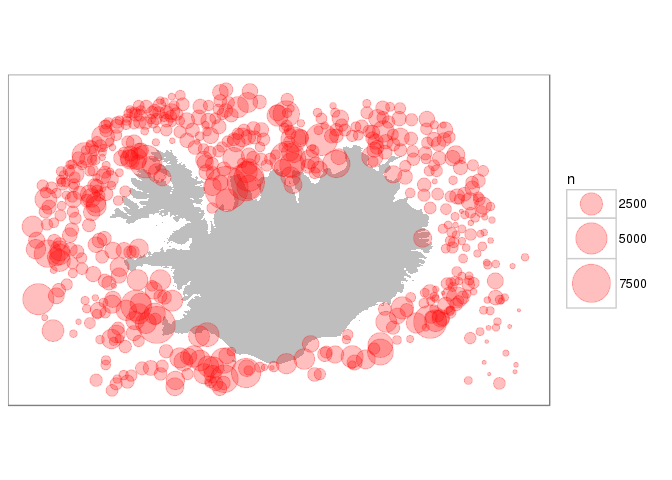
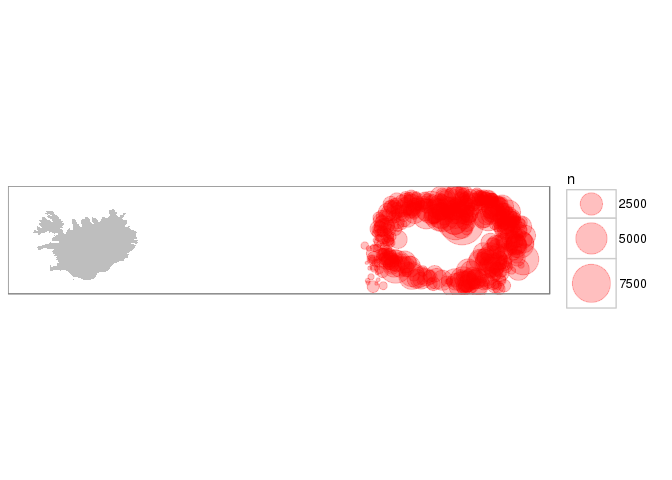
- uppfærsla á forsíðu m.t.t. nýlegra breytinga

diff --git a/README.md b/README.md
@@ -70,7 +70,7 @@ explain(lengdir)
 
 ```
 ## <SQL> EXPLAIN PLAN FOR SELECT "SYNIS_ID" AS "synis_id", "TEGUND" AS "tegund", "LENGD" AS "lengd", "FJOLDI" AS "fjoldi", "KYN" AS "kyn", "KYNTHROSKI" AS "kynthroski", "SBT" AS "sbt", "SBN" AS "sbn", "SNT" AS "snt", "SNN" AS "snn"
-## FROM (fiskar.lengdir) "urxshrqcxh"
+## FROM (fiskar.lengdir) "hkilyrvkld"
 ```
 Ergo we generated an object, which one part is an SQL-query. The `explain` informs us how the database plans to execute the query.
 
@@ -133,7 +133,7 @@ explain(lengdir)
 ## <SQL> EXPLAIN PLAN FOR SELECT *
 ## FROM (SELECT "synis_id" AS "synis_id", "tegund" AS "tegund", "lengd" AS "lengd", "fjoldi" AS "fjoldi", "kyn" AS "kyn", "kynthroski" AS "kynthroski"
 ## FROM (SELECT "SYNIS_ID" AS "synis_id", "TEGUND" AS "tegund", "LENGD" AS "lengd", "FJOLDI" AS "fjoldi", "KYN" AS "kyn", "KYNTHROSKI" AS "kynthroski", "SBT" AS "sbt", "SBN" AS "sbn", "SNT" AS "snt", "SNN" AS "snn"
-## FROM (fiskar.lengdir) "zuowlykouz") "mbhejgkbhu") "viplhgaqjg"
+## FROM (fiskar.lengdir) "hvqhbzyfbh") "scmwyksqez") "duafngrueq"
 ## WHERE (("synis_id" = 48489.0) AND ("tegund" = 1.0))
 ```
 
@@ -210,36 +210,36 @@ explain(d)
 ## FROM (SELECT "synis_id", "tegund", "lengd", "fjoldi", "kyn", "kynthroski", 'lengdir' AS "uppruni_lengdir"
 ## FROM (SELECT "synis_id" AS "synis_id", "tegund" AS "tegund", "lengd" AS "lengd", "fjoldi" AS "fjoldi", "kyn" AS "kyn", "kynthroski" AS "kynthroski"
 ## FROM (SELECT * FROM (SELECT "SYNIS_ID" AS "synis_id", "TEGUND" AS "tegund", "LENGD" AS "lengd", "FJOLDI" AS "fjoldi", "KYN" AS "kyn", "KYNTHROSKI" AS "kynthroski", "SBT" AS "sbt", "SBN" AS "sbn", "SNT" AS "snt", "SNN" AS "snn"
-## FROM (fiskar.lengdir) "zicvtdgtwp") "xfnvxveomi"
+## FROM (fiskar.lengdir) "becrdlvnfw") "lnqicezgvi"
 ## 
 ## INNER JOIN
 ## 
 ## (SELECT "synis_id" AS "synis_id"
 ## FROM (SELECT *
 ## FROM (SELECT "SYNIS_ID" AS "synis_id", "LEIDANGUR" AS "leidangur", "DAGS" AS "dags", "SKIP" AS "skip", "STOD" AS "stod", "REITUR" AS "reitur", "SMAREITUR" AS "smareitur", "KASTAD_N_BREIDD" AS "kastad_n_breidd", "KASTAD_V_LENGD" AS "kastad_v_lengd", "HIFT_N_BREIDD" AS "hift_n_breidd", "HIFT_V_LENGD" AS "hift_v_lengd", "DYPI_KASTAD" AS "dypi_kastad", "DYPI_HIFT" AS "dypi_hift", "VEIDARFAERI" AS "veidarfaeri", "MOSKVASTAERD" AS "moskvastaerd", "GRANDARALENGD" AS "grandaralengd", "HEILDARAFLI" AS "heildarafli", "LONDUNARHOFN" AS "londunarhofn", "SKIKI" AS "skiki", "FJARDARREITUR" AS "fjardarreitur", "SNT" AS "snt", "SNN" AS "snn", "SBT" AS "sbt", "SBN" AS "sbn", "HNATTSTADA" AS "hnattstada", "LANDSYNI" AS "landsyni", "ATHS" AS "aths", "STADA_STODVAR" AS "stada_stodvar", "NET_NR" AS "net_nr", "SYNAFLOKKUR" AS "synaflokkur", "VEIDISVAEDI" AS "veidisvaedi", "HITAMAELIR_ID" AS "hitamaelir_id", "MAELINGARMENN" AS "maelingarmenn", "VEIDARFAERI_ID" AS "veidarfaeri_id", "TOG_ATHS" AS "tog_aths", "MEDFERD_AFLA" AS "medferd_afla"
-## FROM (fiskar.stodvar) "zumalzhept") "hjaxfpalfg"
-## WHERE ("dags" > TO_DATE('01.01.1986', 'dd.mm.yyyy'))) "grqfdbyltq") "hwpiomxvcg"
+## FROM (fiskar.stodvar) "yjusjwkdrh") "soesafjklq"
+## WHERE ("dags" > TO_DATE('01.01.1986', 'dd.mm.yyyy'))) "vdsmzxeyvu") "cjbbabzqxp"
 ## 
-## USING ("synis_id")) "eebvxffyjk") "benwfnccoz"
+## USING ("synis_id")) "bsbeynzwqk") "yqatwlpjdp"
 ## UNION ALL
 ## SELECT "synis_id", "tegund", "lengd", "fjoldi", "kyn", "kynthroski", 'leidr_lengdir' AS "uppruni_lengdir"
 ## FROM (SELECT *
 ## FROM (SELECT * FROM (SELECT "synis_id" AS "synis_id", "tegund" AS "tegund", "lengd" AS "lengd", "fjoldi" AS "fjoldi", "kyn" AS "kyn", "kynthroski" AS "kynthroski"
 ## FROM (SELECT "SNT" AS "snt", "SNN" AS "snn", "SBT" AS "sbt", "SBN" AS "sbn", "SYNIS_ID" AS "synis_id", "TEGUND" AS "tegund", "LENGD" AS "lengd", "FJOLDI" AS "fjoldi", "KYN" AS "kyn", "KYNTHROSKI" AS "kynthroski"
-## FROM (fiskar.leidr_lengdir) "zapxpsoncp") "fklqmvpowr") "youewqlebf"
+## FROM (fiskar.leidr_lengdir) "xublgigloc") "tacwjgvqyl") "lotebiwznf"
 ## 
 ## INNER JOIN
 ## 
 ## (SELECT "synis_id" AS "synis_id"
 ## FROM (SELECT *
 ## FROM (SELECT "SNT" AS "snt", "SNN" AS "snn", "SBT" AS "sbt", "SBN" AS "sbn", "SYNIS_ID" AS "synis_id", "LEIDANGUR" AS "leidangur", "SYNAFLOKKUR" AS "synaflokkur", "DAGS" AS "dags", "SKIP_NR" AS "skip_nr", "STOD" AS "stod", "REITUR" AS "reitur", "SMAREITUR" AS "smareitur", "ORREITUR" AS "orreitur", "HNATTSTADA" AS "hnattstada", "KASTAD_BREIDD" AS "kastad_breidd", "KASTAD_LENGD" AS "kastad_lengd", "HIFT_BREIDD" AS "hift_breidd", "HIFT_LENGD" AS "hift_lengd", "DYPI_KASTAD" AS "dypi_kastad", "DYPI_HIFT" AS "dypi_hift", "VEIDARF" AS "veidarf", "MOSKVASTAERD" AS "moskvastaerd", "GRANDARALENGD" AS "grandaralengd", "HEILDARAFLI" AS "heildarafli", "L_HOFN" AS "l_hofn", "SKIKI" AS "skiki", "FJ_REITUR" AS "fj_reitur", "TOGBYRJUN" AS "togbyrjun", "TOGENDIR" AS "togendir", "TOGHRADI" AS "toghradi", "TOGLENGD" AS "toglengd", "VIR_UTI" AS "vir_uti", "LODRETT_OPNUN" AS "lodrett_opnun", "TOGNUMER" AS "tognumer", "TOGSTEFNA" AS "togstefna", "LARETT_OPNUN" AS "larett_opnun", "TOGTIMI" AS "togtimi", "EYKT" AS "eykt", "TOGDYPI_KASTAD" AS "togdypi_kastad", "TOGDYPI_HIFT" AS "togdypi_hift", "TOGDYPISHITI" AS "togdypishiti", "VINDHRADI" AS "vindhradi", "VINDATT" AS "vindatt", "VEDUR" AS "vedur", "SKY" AS "sky", "SJOR" AS "sjor", "BOTNHITI" AS "botnhiti", "YFIRB_HITI" AS "yfirb_hiti", "LOFTHITI" AS "lofthiti", "LOFTVOG" AS "loftvog", "HAFIS" AS "hafis", "STRAUMSTEFNA" AS "straumstefna", "STRAUMHRADI" AS "straumhradi", "SJONDYPI" AS "sjondypi", "ATHS" AS "aths", "LANDSYNI" AS "landsyni", "STADA_STODVAR" AS "stada_stodvar", "HITAMAELIR_ID" AS "hitamaelir_id", "MAELINGARMENN" AS "maelingarmenn", "MEDFERD_AFLA" AS "medferd_afla", "NET_NR" AS "net_nr", "TOG_ATHS" AS "tog_aths", "VEIDARFAERI_ID" AS "veidarfaeri_id", "VEIDISVAEDI" AS "veidisvaedi", "VINDHRADI_HNUTAR" AS "vindhradi_hnutar"
-## FROM (fiskar.leidr_stodvar) "ybrsxysyfo") "lfbnknxkro"
-## WHERE ("dags" < TO_DATE('01.01.1986', 'dd.mm.yyyy') AND "dags" > TO_DATE('1910', 'yyyy'))) "qgsmwhyxrc") "zfwurytvul"
+## FROM (fiskar.leidr_stodvar) "jrjpodpvyy") "iteijqcuyo"
+## WHERE ("dags" < TO_DATE('01.01.1986', 'dd.mm.yyyy') AND "dags" > TO_DATE('1910', 'yyyy'))) "fnmpchdnri") "fedvgwgrkp"
 ## 
-## USING ("synis_id")) "xfryakxbgg"
-## WHERE (NOT(("synis_id" IN (133095.0, 57070.0, 133401.0, 37559.0, 112980.0, 112984.0, 112987.0, 112991.0, 112995.0, 112998.0, 112999.0, 128268.0, 129166.0, 129168.0, 140153.0, 140155.0, 129370.0, 129170.0, 128765.0, 129098.0, 119798.0, 128890.0, 129146.0, 128586.0, 128898.0, 128902.0, 123916.0, 128392.0, 116665.0, 115948.0, 115967.0))))) "lsbufjptyo") "fcptzusfvk") "vdnivspbuc"
-## WHERE ("synis_id" = 48489.0)) "tssvujtolq"
-## GROUP BY "tegund") "wwvxuagkax"
+## USING ("synis_id")) "xuulmgeemk"
+## WHERE (NOT(("synis_id" IN (133095.0, 57070.0, 133401.0, 37559.0, 112980.0, 112984.0, 112987.0, 112991.0, 112995.0, 112998.0, 112999.0, 128268.0, 129166.0, 129168.0, 140153.0, 140155.0, 129370.0, 129170.0, 128765.0, 129098.0, 119798.0, 128890.0, 129146.0, 128586.0, 128898.0, 128902.0, 123916.0, 128392.0, 116665.0, 115948.0, 115967.0))))) "enzfghdety") "swvkycetfm") "khoudokflg"
+## WHERE ("synis_id" = 48489.0)) "xviuthyeze"
+## GROUP BY "tegund") "mgbqliywor"
 ## ORDER BY "fjoldi"
 ```
 
@@ -316,10 +316,10 @@ lesa_stodvar(mar) %>%
 ## $ stod             <int> 9
 ## $ reitur           <int> 669
 ## $ smareitur        <int> 4
-## $ kastad_n_breidd  <int> 663055
-## $ kastad_v_lengd   <int> 192363
-## $ hift_n_breidd    <int> 663345
-## $ hift_v_lengd     <int> 192272
+## $ kastad_n_breidd  <dbl> 66.50917
+## $ kastad_v_lengd   <dbl> 19.39383
+## $ hift_n_breidd    <dbl> 66.5575
+## $ hift_v_lengd     <dbl> 19.37867
 ## $ dypi_kastad      <int> 311
 ## $ dypi_hift        <int> 311
 ## $ veidarfaeri      <int> 73
@@ -394,9 +394,6 @@ To get a quick plot of the station location we could do:
 ```r
 smb1991 %>% 
   collect() %>% 
-  # convert ddmmxx to decimal degrees
-  mutate(lon = -gisland::geo_convert(lon),
-         lat =  gisland::geo_convert(lat)) %>% 
   ggplot(aes(lon, lat)) +
   geom_polygon(data = gisland::iceland, aes(long, lat, group = group)) +
   geom_point(col = "red") +
@@ -428,8 +425,6 @@ To turn this into action, lets execute the query, get the dataframe into R and p
 ```r
 smb1991_n %>% 
   collect() %>% 
-  mutate(lon = -gisland::geo_convert(lon),
-         lat =  gisland::geo_convert(lat)) %>% 
   ggplot() +
   theme_bw() +
   geom_polygon(data = gisland::iceland, aes(long, lat, group = group), fill = "grey") +
@@ -512,51 +507,88 @@ devtools::session_info()
 
 ```
 ##  setting  value                       
-##  version  R version 3.3.0 (2016-05-03)
+##  version  R version 3.3.1 (2016-06-21)
 ##  system   x86_64, linux-gnu           
 ##  ui       X11                         
 ##  language (EN)                        
-##  collate  is_IS.UTF-8                 
+##  collate  en_US.UTF-8                 
 ##  tz       Atlantic/Reykjavik          
-##  date     2016-11-14                  
+##  date     2016-11-27                  
 ## 
-##  package     * version     date       source                       
-##  assertthat    0.1         2013-12-06 CRAN (R 3.2.3)               
-##  colorspace    1.2-6       2015-03-11 CRAN (R 3.2.3)               
-##  data.table    1.9.7       2016-08-08 local                        
-##  DBI           0.5-1       2016-09-10 cran (@0.5-1)                
-##  devtools      1.11.1.9000 2016-06-07 github (hadley/devtools)     
-##  digest        0.6.10      2016-08-02 cran (@0.6.10)               
-##  dplyr       * 0.5.0.9000  2016-11-12 github (hadley/dplyr)        
-##  dplyrOracle * 0.0.1       2016-11-11 github (fishvice/dplyrOracle)
-##  evaluate      0.9         2016-04-29 CRAN (R 3.2.3)               
-##  formatR       1.4         2016-05-09 cran (@1.4)                  
-##  ggplot2     * 2.1.0.9000  2016-08-04 github (hadley/ggplot2)      
-##  gisland       0.0.05      2016-09-02 local                        
-##  gtable        0.2.0       2016-02-26 CRAN (R 3.2.3)               
-##  htmltools     0.3.5       2016-03-21 CRAN (R 3.2.3)               
-##  knitr         1.14        2016-08-13 CRAN (R 3.3.0)               
-##  labeling      0.3         2014-08-23 CRAN (R 3.2.3)               
-##  lattice       0.20-33     2015-07-14 CRAN (R 3.3.0)               
-##  lazyeval      0.2.0       2016-06-12 cran (@0.2.0)                
-##  magrittr      1.5         2014-11-22 CRAN (R 3.2.3)               
-##  mar         * 0.0.3.9000  2016-11-12 local                        
-##  memoise       1.0.0       2016-01-29 CRAN (R 3.2.3)               
-##  munsell       0.4.3       2016-02-13 CRAN (R 3.2.3)               
-##  plyr          1.8.4       2016-06-08 cran (@1.8.4)                
-##  purrr       * 0.2.2.9000  2016-08-13 github (hadley/purrr)        
-##  R6            2.2.0       2016-10-05 cran (@2.2.0)                
-##  Rcpp          0.12.7      2016-09-05 cran (@0.12.7)               
-##  readr       * 1.0.0       2016-08-03 CRAN (R 3.3.0)               
-##  rmarkdown     1.1         2016-10-16 CRAN (R 3.3.0)               
-##  ROracle       1.2-2       2016-02-17 CRAN (R 3.3.0)               
-##  scales        0.4.0       2016-02-26 CRAN (R 3.2.3)               
-##  sp          * 1.2-3       2016-04-14 CRAN (R 3.2.3)               
-##  stringi       1.1.1       2016-05-27 CRAN (R 3.2.3)               
-##  stringr       1.1.0       2016-08-19 CRAN (R 3.3.0)               
-##  tibble      * 1.2-12      2016-11-12 github (hadley/tibble)       
-##  tidyr       * 0.6.0.9000  2016-08-13 github (hadley/tidyr)        
-##  tidyverse   * 1.0.0       2016-09-09 CRAN (R 3.3.0)               
-##  withr         1.0.1       2016-02-04 CRAN (R 3.2.3)               
-##  yaml          2.1.13      2014-06-12 CRAN (R 3.2.3)
+##  package     * version    date      
+##  assertthat    0.1        2013-12-06
+##  colorspace    1.2-7      2016-10-11
+##  DBI           0.5-1      2016-09-10
+##  devtools      1.12.0     2016-06-24
+##  digest        0.6.10     2016-08-02
+##  dplyr       * 0.5.0      2016-06-24
+##  dplyrOracle * 0.0.1      2016-11-17
+##  evaluate      0.10       2016-10-11
+##  formatR       1.4        2016-05-09
+##  ggplot2     * 2.1.0      2016-03-01
+##  gisland       0.0.04     2016-04-28
+##  gtable        0.2.0      2016-02-26
+##  htmltools     0.3.5      2016-03-21
+##  knitr         1.14       2016-08-13
+##  labeling      0.3        2014-08-23
+##  lattice       0.20-33    2015-07-14
+##  lazyeval      0.2.0      2016-06-12
+##  magrittr      1.5        2014-11-22
+##  mar         * 0.0.3.9000 2016-11-27
+##  memoise       1.0.0      2016-01-29
+##  munsell       0.4.3      2016-02-13
+##  plyr          1.8.4      2016-06-08
+##  purrr       * 0.2.2      2016-06-18
+##  R6            2.2.0      2016-10-05
+##  Rcpp          0.12.7     2016-09-05
+##  readr       * 1.0.0      2016-08-03
+##  rmarkdown     1.1        2016-10-16
+##  ROracle       1.2-2      2016-02-17
+##  scales        0.4.0      2016-02-26
+##  sp          * 1.2-3      2016-04-14
+##  stringi       1.1.2      2016-10-01
+##  stringr       1.1.0      2016-08-19
+##  tibble      * 1.2        2016-08-26
+##  tidyr       * 0.6.0      2016-08-12
+##  tidyverse   * 1.0.0      2016-09-09
+##  withr         1.0.2      2016-06-20
+##  yaml          2.1.13     2014-06-12
+##  source                                    
+##  CRAN (R 3.3.1)                            
+##  CRAN (R 3.3.1)                            
+##  cran (@0.5-1)                             
+##  CRAN (R 3.3.1)                            
+##  CRAN (R 3.3.1)                            
+##  CRAN (R 3.3.1)                            
+##  Github (fishvice/dplyrOracle@abf36e3)     
+##  CRAN (R 3.3.1)                            
+##  CRAN (R 3.3.1)                            
+##  CRAN (R 3.3.1)                            
+##  Github (einarhjorleifsson/gisland@97861c8)
+##  CRAN (R 3.3.1)                            
+##  CRAN (R 3.3.1)                            
+##  CRAN (R 3.3.1)                            
+##  CRAN (R 3.3.1)                            
+##  CRAN (R 3.3.1)                            
+##  CRAN (R 3.3.1)                            
+##  CRAN (R 3.3.1)                            
+##  local                                     
+##  CRAN (R 3.3.1)                            
+##  CRAN (R 3.3.1)                            
+##  CRAN (R 3.3.1)                            
+##  CRAN (R 3.3.1)                            
+##  CRAN (R 3.3.1)                            
+##  CRAN (R 3.3.1)                            
+##  CRAN (R 3.3.1)                            
+##  CRAN (R 3.3.1)                            
+##  CRAN (R 3.3.0)                            
+##  CRAN (R 3.3.1)                            
+##  CRAN (R 3.3.1)                            
+##  CRAN (R 3.3.1)                            
+##  CRAN (R 3.3.1)                            
+##  CRAN (R 3.3.1)                            
+##  CRAN (R 3.3.1)                            
+##  CRAN (R 3.3.1)                            
+##  CRAN (R 3.3.1)                            
+##  CRAN (R 3.3.1)
 ```
